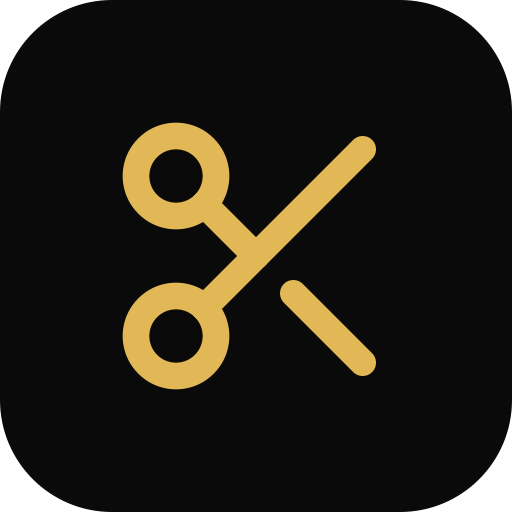
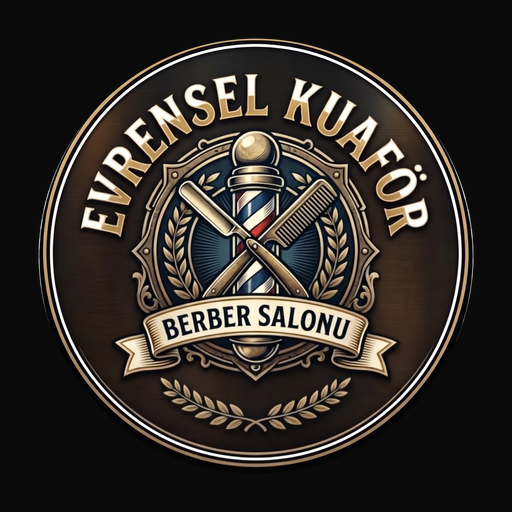
Gerçek dükkan logosu siteye eklendi
Evrensel Kuaför rozet logosu header + footer'a kondu; favicon,
sekme ikonu, Apple ve manifest ikonları logodan yeniden üretildi.
Site adı placeholder "BERBER" yerine "Evrensel Kuaför" oldu.

diff --git a/components/site/site-header.tsx b/components/site/site-header.tsx
@@ -1,8 +1,9 @@
 "use client";
 
 import * as React from "react";
+import Image from "next/image";
 import Link from "next/link";
-import { Menu, Scissors, X } from "lucide-react";
+import { Menu, X } from "lucide-react";
 import { ModeToggle } from "@/components/mode-toggle";
 import { BookButton } from "@/components/site/book-button";
 import { Button } from "@/components/ui/button";
@@ -51,9 +52,14 @@ export function SiteHeader() {
           className="flex items-center gap-2"
           onClick={() => setOpen(false)}
         >
-          <span className="grid size-9 place-items-center rounded-xl bg-brand text-brand-foreground">
-            <Scissors className="size-5" />
-          </span>
+          <Image
+            src="/logo.png"
+            alt={`${siteConfig.name} logosu`}
+            width={40}
+            height={40}
+            priority
+            className="size-10 rounded-full"
+          />
           <span className="font-heading text-lg font-bold tracking-tight">
             {siteConfig.name}
           </span>

diff --git a/components/site/site-footer.tsx b/components/site/site-footer.tsx
@@ -1,5 +1,5 @@
+import Image from "next/image";
 import Link from "next/link";
-import { Scissors } from "lucide-react";
 import { InstagramIcon } from "@/components/site/instagram-icon";
 import { telHref } from "@/lib/format";
 import { siteConfig } from "@/lib/site";
@@ -23,9 +23,13 @@ export function SiteFooter() {
           {/* Marka */}
           <div className="lg:col-span-2">
             <div className="flex items-center gap-2">
-              <span className="grid size-9 place-items-center rounded-xl bg-brand text-brand-foreground">
-                <Scissors className="size-5" />
-              </span>
+              <Image
+                src="/logo.png"
+                alt={`${siteConfig.name} logosu`}
+                width={40}
+                height={40}
+                className="size-10 rounded-full"
+              />
               <span className="font-heading text-lg font-bold tracking-tight">
                 {siteConfig.name}
               </span>

diff --git a/lib/site.ts b/lib/site.ts
@@ -5,7 +5,7 @@
  * 🙋 Buradaki bilgiler örnek/placeholder — gerçek dükkan bilgilerinle değiştir.
  */
 export const siteConfig = {
-  name: "BERBER",
+  name: "Evrensel Kuaför",
   slogan: "Modern Erkek Kuaförü",
   description:
     "Online randevunu saniyeler içinde al, sıra bekleme. Saç, sakal ve bakımda mahallenin güvenilir adresi.",